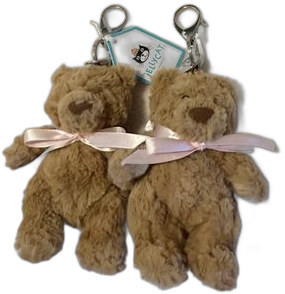
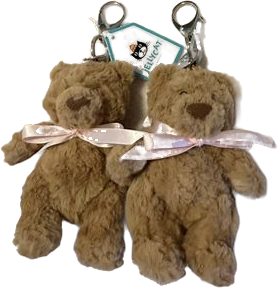
책상 위 메모 장면, 반지/곰돌이 누끼 다시
Claude-Session: https://claude.ai/code/session_01CGZ3QrjHySqFvVZ8AvGzUo

diff --git a/xroom.js b/xroom.js
@@ -43,9 +43,11 @@ function xRoom(){return new Promise(done=>{
       ov.innerHTML=`<div class="pv"><div class="fl" id="fl" data-a="flip"><div class="ff">${pic(p[0],i==3?'c':'')}</div><div class="fb" ${bgUrl('linedPaper')}></div></div></div><p class="hint" style="color:#fff">사진을 눌러 뒤집어보세요</p><button class="box" data-a="close">닫기</button>`;
       ov.querySelector('.fb').textContent=p[1];ov.classList.add('on');
       bindA(ov,{flip(){$('fl').classList.toggle('f');seenL.add(i)},close(){ov.classList.remove('on');seenL.size==5?M.look():M.left()}})},
-    desk(){set(`<button class="box" data-a="note">${NOTE_INTRO}</button>`);bindA(scr,M)},
-    note(){set(`<div class="sheet" ${bgUrl('linedPaper')} style="min-height:100cqw"></div><button class="box" data-a="fin">다음으로</button>`);
-      scr.querySelector('.sheet').textContent=NOTE;bindA(scr,M)},
+    desk(){set(`<p class="hint">${NOTE_INTRO}</p><div class="desk" ${bgUrl('desk')}><button class="memo" data-a="note" ${bgUrl('linedPaper')}><i class="mclip"></i><b>대영이</b><span></span><span></span><span></span></button></div>`);bindA(scr,M)},
+    note(){const ov=$('ov');
+      ov.innerHTML=`<div class="mbig" ${bgUrl('linedPaper')}></div><button class="box" data-a="close">메모 내려놓기</button>`;
+      ov.querySelector('.mbig').textContent=NOTE;ov.classList.add('on');
+      bindA(ov,{close(){ov.classList.remove('on');set(`<p class="hint">${NOTE_INTRO}</p><div class="desk" ${bgUrl('desk')}><button class="memo seen" data-a="note" ${bgUrl('linedPaper')}><i class="mclip"></i><b>대영이</b><span></span><span></span><span></span></button></div><button class="box" data-a="fin">다음으로</button>`);bindA(scr,M)}})},
     fin(){done()}
   };
   letterScene(LETTER2,lookHtml(),M);

diff --git a/style.css b/style.css
@@ -276,3 +276,15 @@ img.c{object-fit:contain!important;background:#c1272d}
 .act .xrt.on{color:#00ba7c}
 .act .xbm.on{color:#1d9bf0}.act .xbm.on .hp{fill:#1d9bf0}
 .sc.x{top:40.5cqw}
+
+/* 책상 위 메모 */
+.desk{position:relative;width:100vw;max-width:100cqw;margin:0 -6cqw;aspect-ratio:626/417;background:#b98b5a center/cover;box-shadow:0 3cqw 6cqw rgba(0,0,0,.5);animation:up .5s both}
+.memo{position:absolute;left:30%;top:36%;width:27%;aspect-ratio:3/3.6;border:0;padding:4cqw 2.4cqw 2cqw;background:#fffdf6 center/cover;transform:rotate(-7deg);
+  box-shadow:.8cqw 1.6cqw 2.4cqw rgba(0,0,0,.35);display:flex;flex-direction:column;gap:1.6cqw;align-items:flex-start;cursor:pointer;animation:mbob 2.4s ease-in-out infinite}
+.memo.seen{animation:none}
+@keyframes mbob{50%{transform:rotate(-7deg) translateY(-1cqw);box-shadow:1cqw 2.6cqw 3cqw rgba(0,0,0,.3)}}
+.memo b{font-family:"Gaegu","Nanum Pen Script",cursive;font-size:4.2cqw;color:#222}
+.memo span{display:block;height:.5cqw;width:90%;background:rgba(40,30,20,.35);border-radius:1cqw}.memo span:nth-of-type(2){width:70%}.memo span:nth-of-type(3){width:80%}
+.mclip{position:absolute;top:-2cqw;left:50%;width:3.4cqw;height:7cqw;margin-left:-1.7cqw;border:.6cqw solid #9aa0a6;border-radius:2cqw;border-bottom-color:transparent}
+.mbig{width:84cqw;max-height:140cqw;overflow-y:auto;background:#fffdf6 center/cover;padding:9cqw 7cqw;transform:rotate(-1.5deg);box-shadow:0 3cqw 6cqw rgba(0,0,0,.6);
+  font-family:"Gaegu","Nanum Pen Script",cursive;font-weight:700;font-size:4.5cqw;line-height:1.7;color:#1d1d1d;white-space:pre-line;text-align:left;word-break:keep-all;animation:lift .45s cubic-bezier(.2,.9,.3,1.2) both}

diff --git a/config.js b/config.js
@@ -24,6 +24,7 @@ const IMG = {
   ring:        "obj-ring.png",
   keyring:     "obj-keyring.png",
   mug:         "obj-mug.png",
+  desk:        "desk.jpg",           // 책상 위 (메모 놓이는 곳)
   drawer:      "drawer.png",         // 협탁(서랍장)
   clothespin:  "clothespin.png",     // 폴라로이드 집게
   scarf:       "obj-scarf.png",
